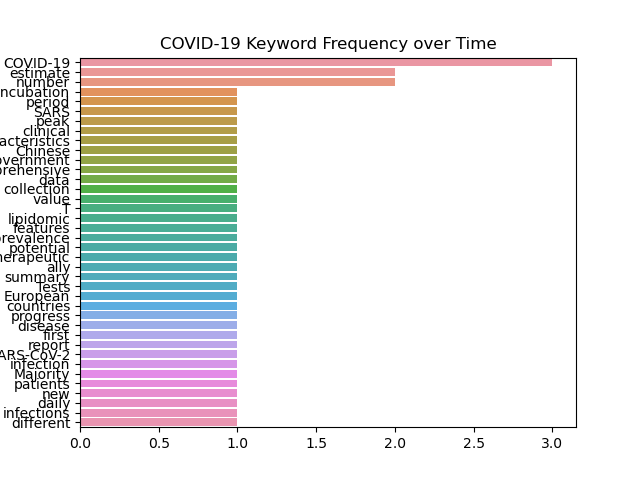
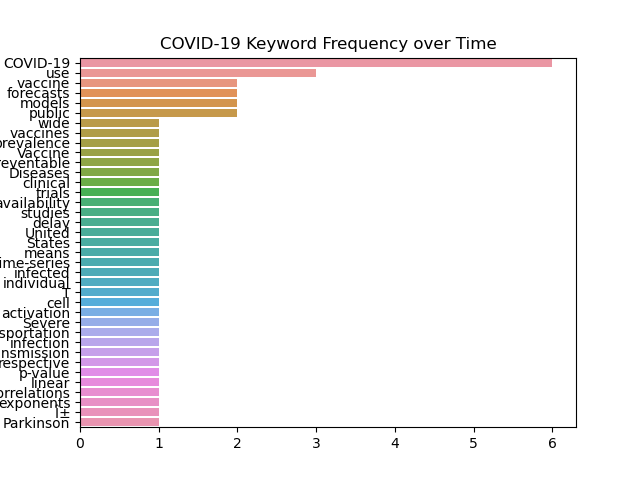
Got dictionary to display on graph

diff --git a/modules/keywords_into_graph.py b/modules/keywords_into_graph.py
@@ -1,31 +1,40 @@
 import glob
 import seaborn as sns
 import pandas as pd
+from read_csv_and_get_dict import *
 import matplotlib.pyplot as plt
 
 from nltk.corpus import stopwords
 from collections import  Counter
 
-def plot_top_non_stopwords_barchart(fileName, text):
+
+
+def plot_top_non_stopwords_barchart(file_name, text_dict):
     stop=set(stopwords.words('english'))
-    
-    new= text.str.split()
-    new=new.values.tolist()
-    corpus=[word for i in new for word in i]
 
-    counter=Counter(corpus)
-    most=counter.most_common()
-    x, y=[], []
-    for word,count in most[:40]:
-        if (word not in stop):
-            x.append(word)
-            y.append(count)
+    for date, text in text_dict.items():
+        joined_dict_text = " "
+        joined_dict_text = joined_dict_text.join(text)
+        new = joined_dict_text.split()
+        #new = new.values.tolist()
+        #corpus = [word for i in new for word in i]
+        counter = Counter(new)#corpus)
+        most = counter.most_common()
+        x, y = [], []
+        #print(most[:40])
+        #if (most[0] not in stop):
+        #    x.append(most[0])
+        #    y.append(date)
+        for word,count in most[:40]:
+            if (word not in stop):
+                x.append(word)
+                y.append(count)
 
-    ax = sns.barplot(x=y,y=x).set_title('COVID-19 Keyword Frequency over Time')
+    ax = sns.barplot(x = y, y = x).set_title('COVID-19 Keyword Frequency over Time')
     plt.show()
     fig = ax.get_figure()
-    print(fileName)
-    fig.savefig(fileName[:-len('.csv')] + '_graph.png')
+    print(file_name)
+    fig.savefig(file_name[:-len('.csv')] + '_graph.png')
 
 def find_keyword_files(file_name):
     file_list = []
@@ -36,10 +45,12 @@ def find_keyword_files(file_name):
 def turn_keywords_into_graph():
     file_list = find_keyword_files('*_nlp_keywords.csv')
     for file in file_list:
-        nlp_keyword_csv = pd.read_csv(file)
-        nlp_keyword_csv.values.tolist()
-       # for row in nlp_keyword_csv:
-        plot_top_non_stopwords_barchart(file, nlp_keyword_csv['Keywords'])
+        keyword_dict = create_dictionary_object(open_read_csv_file(file))
+        #nlp_keyword_csv = pd.read_csv(file)
+        #nlp_keyword_csv.values.tolist()
+        #print(nlp_keyword_csv)
+        #for row in nlp_keyword_csv:
+        plot_top_non_stopwords_barchart(file, keyword_dict)#['Keywords'])
     
 def main():
     turn_keywords_into_graph()

diff --git a/modules/read_csv_and_get_dict.py b/modules/read_csv_and_get_dict.py
@@ -22,7 +22,7 @@ def open_read_csv_file(file_to_read_in):
     file_obj.seek(0)
     csv_object = csv.reader(file_obj, dialect=dialect)
     csv_object_header = next(csv_object)
-    return csv_object_header, csv_object
+    return csv_object
 
 def create_dictionary_object(csv_object) -> dict:
     dictionary_object = {}
